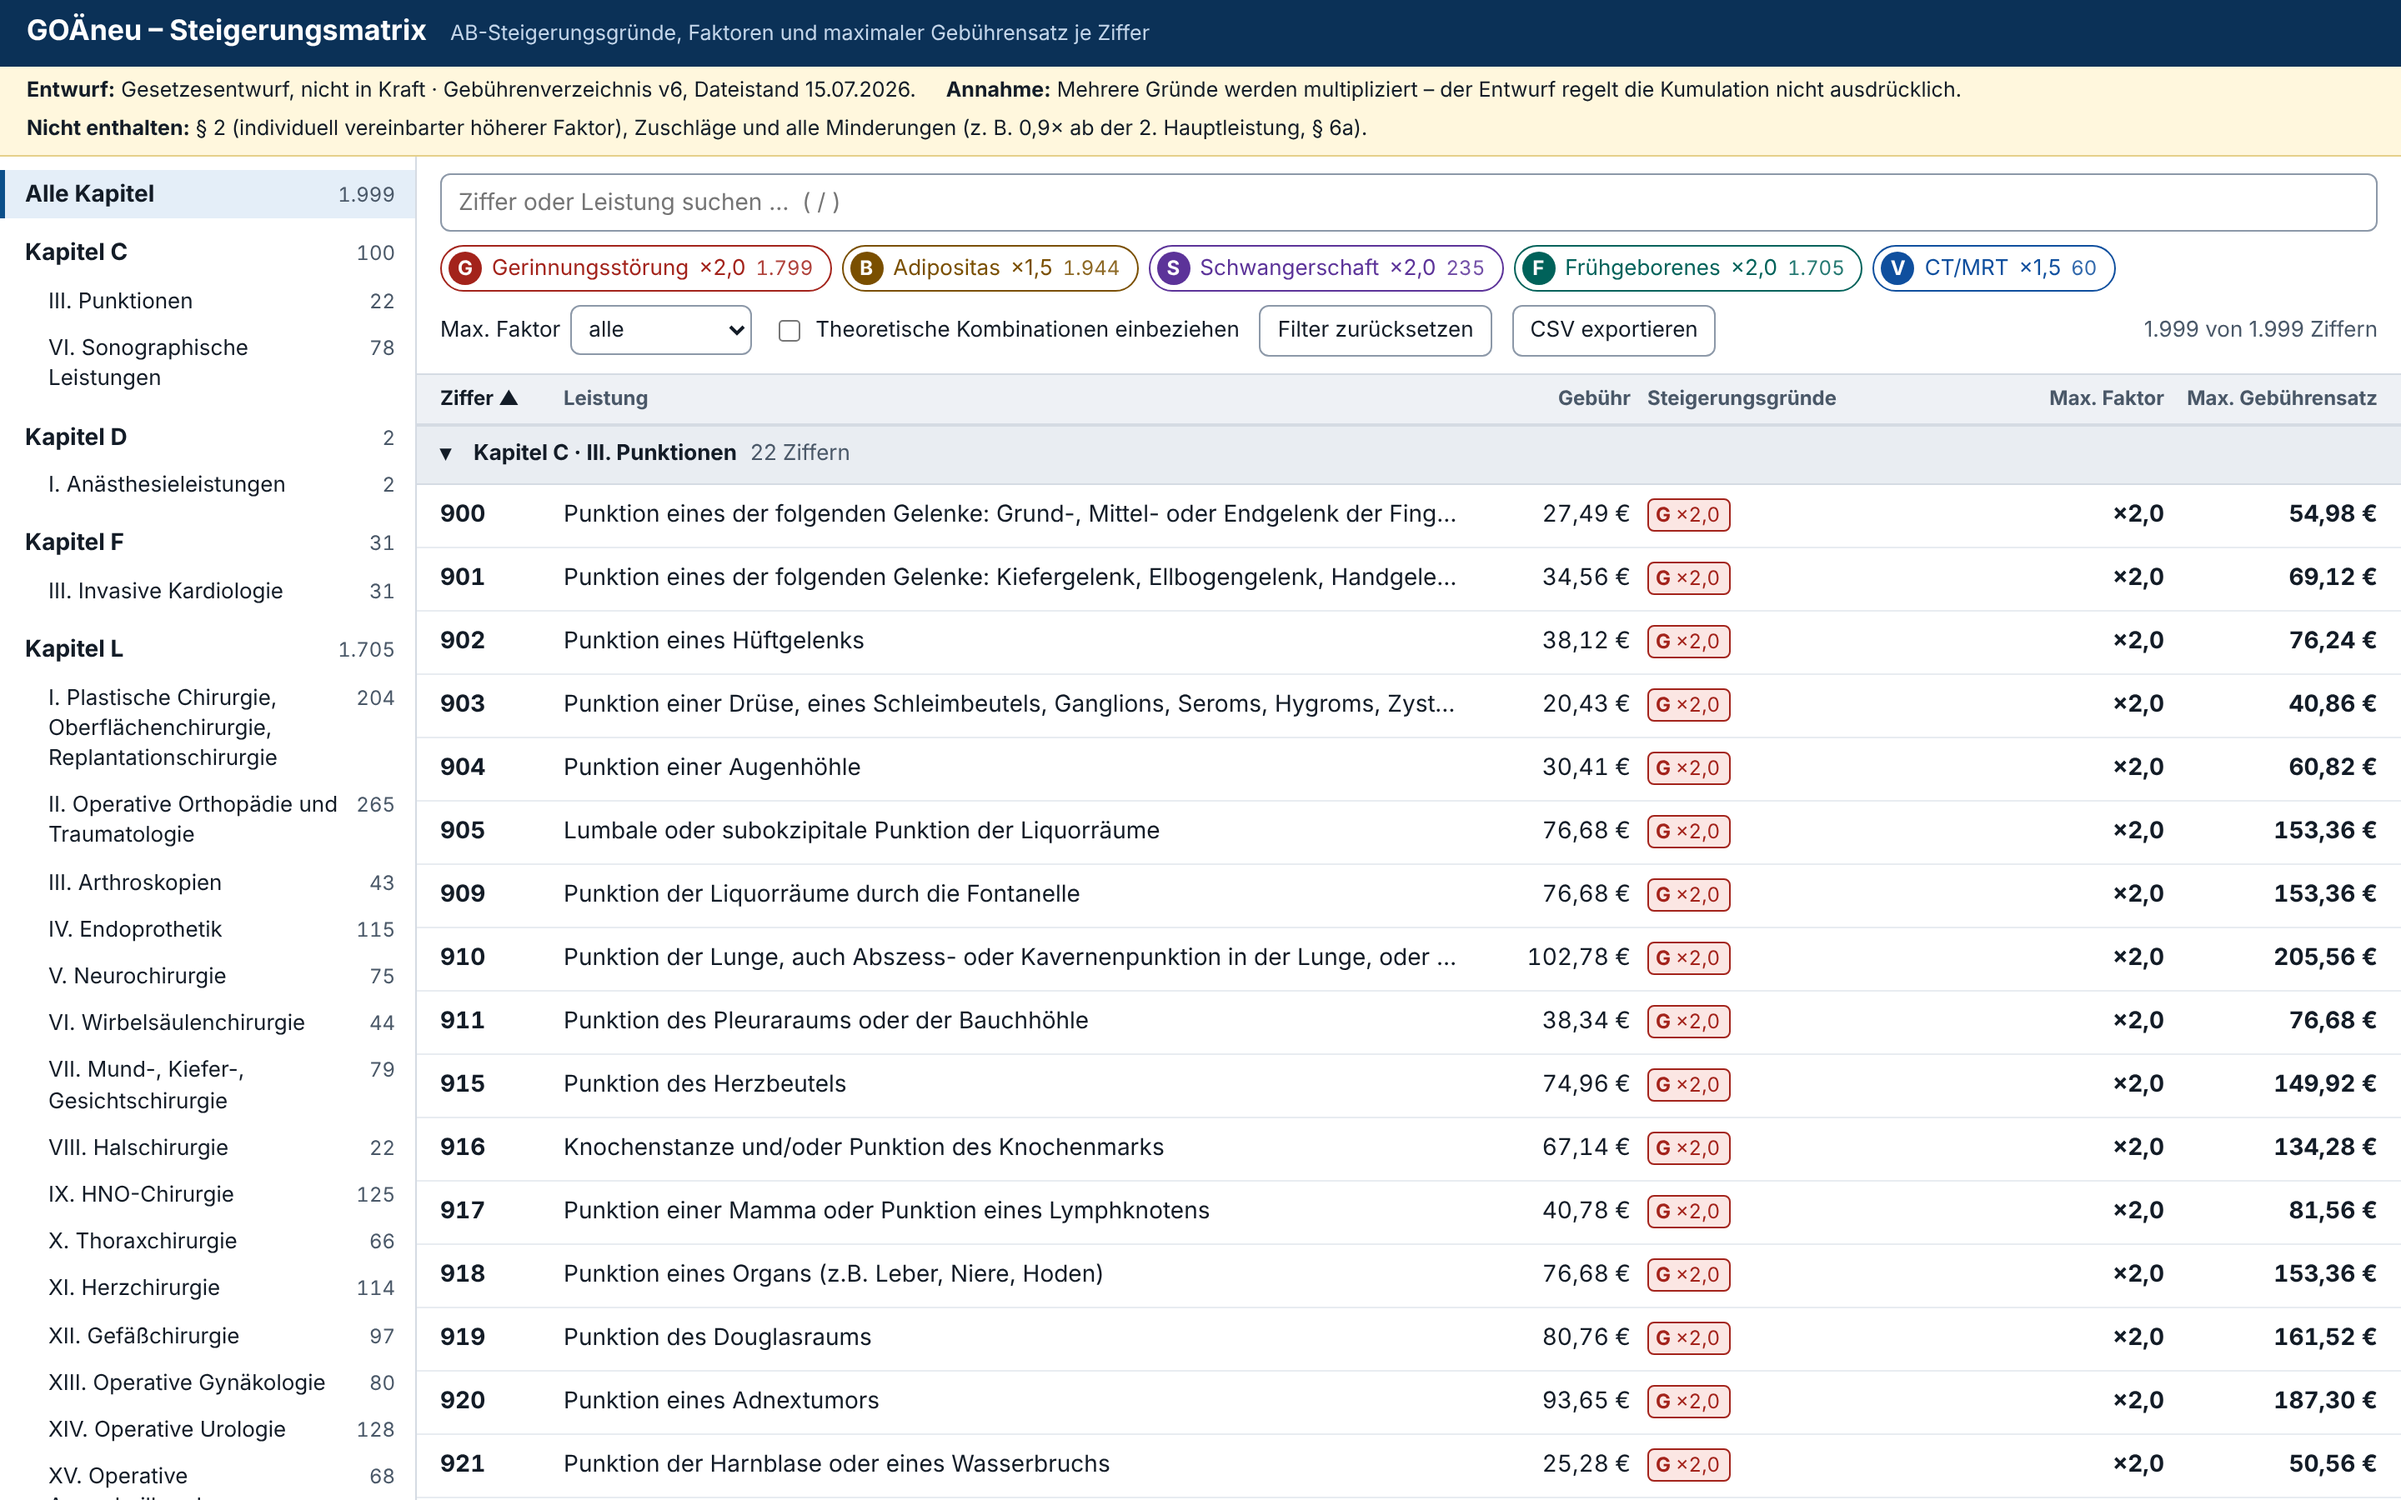
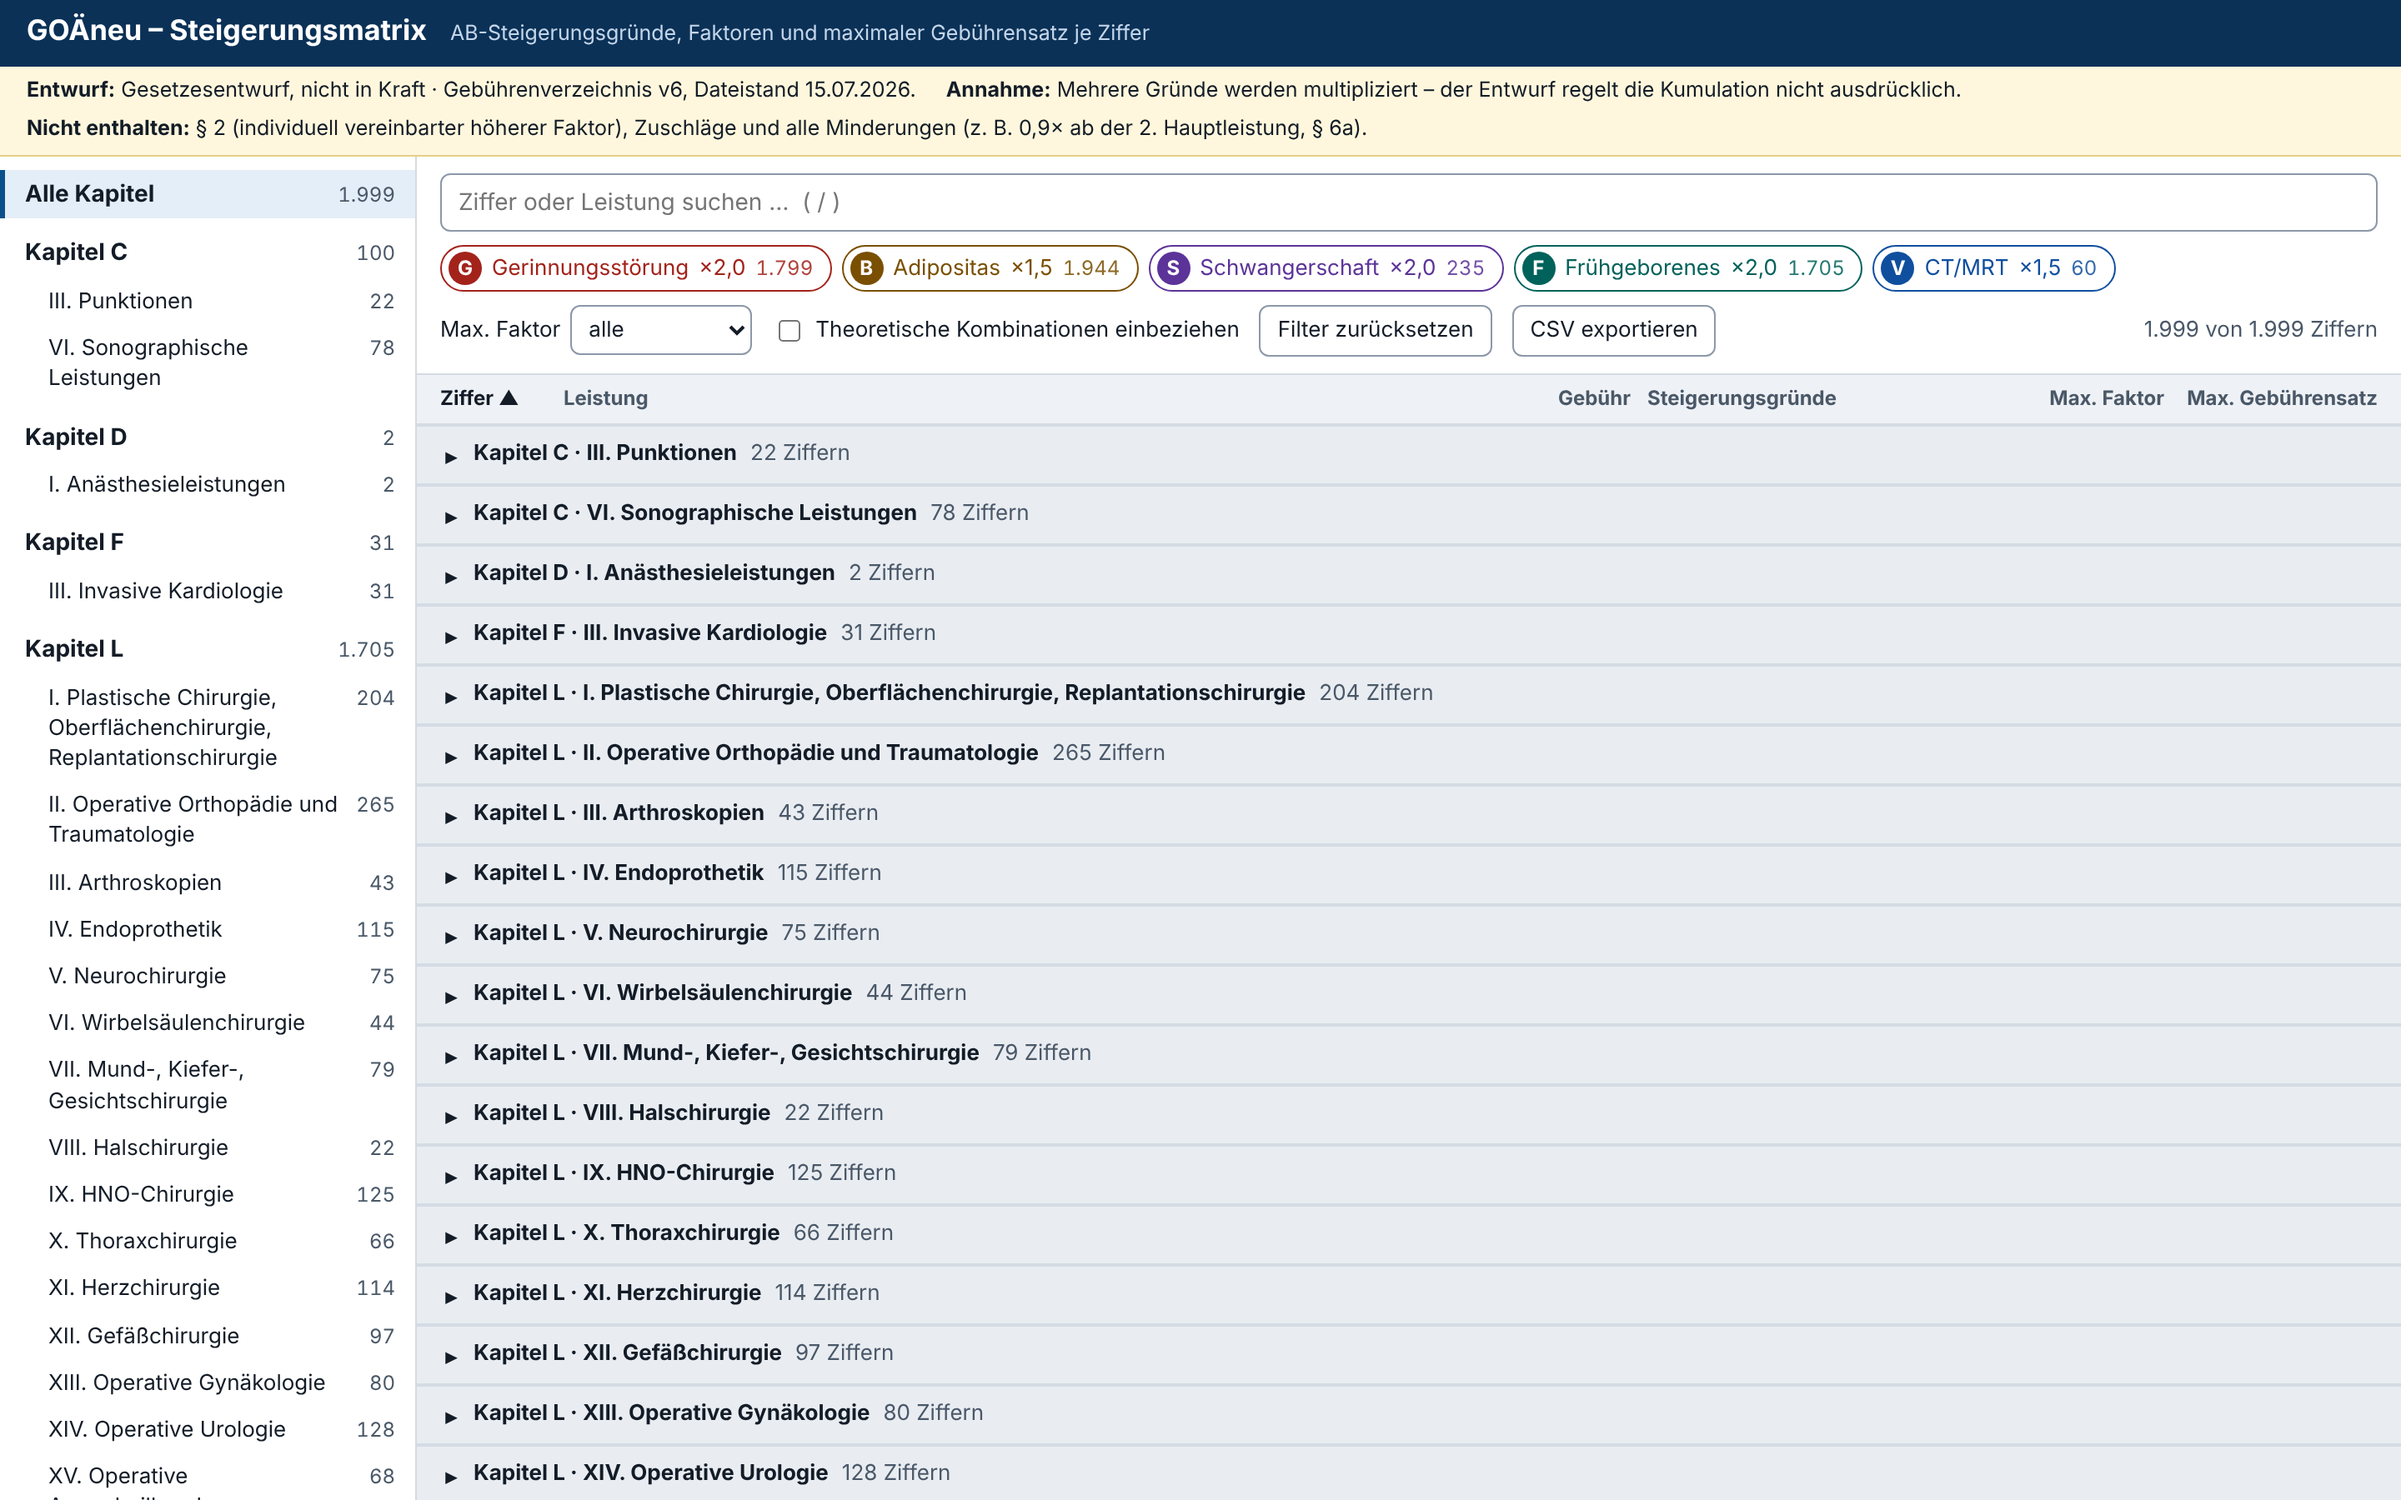
Dashboard: Abschnitte beim Öffnen standardmäßig eingeklappt
Claude-Session: https://claude.ai/code/session_01ExX3MZGde2qf5UwJUVuPTQ

diff --git a/build/template.html b/build/template.html
@@ -166,7 +166,7 @@ const R = D.rows.map(r => { const m = D.muster[r[6]]; return {z:r[0], a:r[1], t:
 const BYZ = new Map(R.map(r => [r.z, r]));
 const ROWH = 38, HEADH = 36;
 
-const st = {kap:null, abs:null, q:'', gr:new Set(), fmax:'', theo:false, sort:'z', dir:1, collapsed:new Set(), sel:null, active:-1};
+const st = {kap:null, abs:null, q:'', gr:new Set(), fmax:'', theo:false, sort:'z', dir:1, collapsed:new Set(D.abschnitte.map((_,i) => i)), sel:null, active:-1};
 let items = [], tops = [], total = 0, result = [];
 
 const mi = r => st.theo ? r.m.maxT : r.m.maxP;
@@ -376,19 +376,20 @@ function closeDrawer(){
 }
 function goto(z){
   if (!BYZ.has(z)) return false;
+  if (st.collapsed.delete(BYZ.get(z).a)) apply();
   let i = items.indexOf(BYZ.get(z));
-  if (i < 0) { st.kap = st.abs = null; st.q = ''; $('#q').value = ''; st.gr.clear(); st.fmax = ''; st.collapsed.clear(); renderNav(); renderFmax(); apply(); i = items.indexOf(BYZ.get(z)); }
+  if (i < 0) { st.kap = st.abs = null; st.q = ''; $('#q').value = ''; st.gr.clear(); st.fmax = ''; renderNav(); renderFmax(); apply(); i = items.indexOf(BYZ.get(z)); }
   st.active = i; list.scrollTop = Math.max(0, tops[i] - HEADH - ROWH); open(z, true);
   return true;
 }
 
 /* ---------- Bedienelemente ---------- */
 let qt = 0;
-const syncQ = () => { const v = $('#q').value.trim(); if (v !== st.q) { st.q = v; apply(); list.scrollTop = 0; } };
+const syncQ = () => { const v = $('#q').value.trim(); if (v !== st.q) { st.q = v; if (v) st.collapsed.clear(); apply(); list.scrollTop = 0; } };
 $('#q').addEventListener('input', () => { clearTimeout(qt); qt = setTimeout(syncQ, 80); });
 $('#q').addEventListener('search', syncQ);
 $('#q').addEventListener('keydown', e => {
-  if (e.key==='Enter') { clearTimeout(qt); st.q = e.target.value.trim(); apply();
+  if (e.key==='Enter') { clearTimeout(qt); st.q = e.target.value.trim(); if (st.q) st.collapsed.clear(); apply();
     const exact = /^\d+$/.test(st.q) && result.find(r => r.zs===st.q);
     const first = exact || items.find(it => it.h === undefined);
     if (first) { st.active = items.indexOf(first); scrollToIdx(st.active); open(first.z, true); } }
@@ -397,7 +398,7 @@ $('#q').addEventListener('keydown', e => {
 $('#chips').addEventListener('click', e => { const b = e.target.closest('.chip'); if (!b) return; const k = b.dataset.k; st.gr.has(k) ? st.gr.delete(k) : st.gr.add(k); apply(); list.scrollTop = 0; $(`.chip[data-k=${k}]`).focus(); });
 $('#fmax').addEventListener('change', e => { st.fmax = e.target.value; apply(); list.scrollTop = 0; });
 $('#theo').addEventListener('change', e => { st.theo = e.target.checked; renderFmax(); apply(); });
-$('#reset').addEventListener('click', () => { st.kap = st.abs = null; st.q = ''; $('#q').value = ''; st.gr.clear(); st.fmax = ''; st.collapsed.clear(); st.sort = 'z'; st.dir = 1; renderNav(); renderFmax(); apply(); list.scrollTop = 0; });
+$('#reset').addEventListener('click', () => { st.kap = st.abs = null; st.q = ''; $('#q').value = ''; st.gr.clear(); st.fmax = ''; st.collapsed = new Set(D.abschnitte.map((_,i) => i)); st.sort = 'z'; st.dir = 1; renderNav(); renderFmax(); apply(); list.scrollTop = 0; });
 $('#colhead').addEventListener('click', e => { const b = e.target.closest('button'); if (!b) return; if (st.sort===b.dataset.s) st.dir = -st.dir; else { st.sort = b.dataset.s; st.dir = (b.dataset.s==='f'||b.dataset.s==='m') ? -1 : 1; } apply(); });
 document.addEventListener('keydown', e => {
   const inField = /INPUT|SELECT|TEXTAREA/.test(document.activeElement.tagName);

diff --git a/dist/GOAeneu_Steigerungsdashboard.html b/dist/GOAeneu_Steigerungsdashboard.html
@@ -166,7 +166,7 @@ const R = D.rows.map(r => { const m = D.muster[r[6]]; return {z:r[0], a:r[1], t:
 const BYZ = new Map(R.map(r => [r.z, r]));
 const ROWH = 38, HEADH = 36;
 
-const st = {kap:null, abs:null, q:'', gr:new Set(), fmax:'', theo:false, sort:'z', dir:1, collapsed:new Set(), sel:null, active:-1};
+const st = {kap:null, abs:null, q:'', gr:new Set(), fmax:'', theo:false, sort:'z', dir:1, collapsed:new Set(D.abschnitte.map((_,i) => i)), sel:null, active:-1};
 let items = [], tops = [], total = 0, result = [];
 
 const mi = r => st.theo ? r.m.maxT : r.m.maxP;
@@ -376,19 +376,20 @@ function closeDrawer(){
 }
 function goto(z){
   if (!BYZ.has(z)) return false;
+  if (st.collapsed.delete(BYZ.get(z).a)) apply();
   let i = items.indexOf(BYZ.get(z));
-  if (i < 0) { st.kap = st.abs = null; st.q = ''; $('#q').value = ''; st.gr.clear(); st.fmax = ''; st.collapsed.clear(); renderNav(); renderFmax(); apply(); i = items.indexOf(BYZ.get(z)); }
+  if (i < 0) { st.kap = st.abs = null; st.q = ''; $('#q').value = ''; st.gr.clear(); st.fmax = ''; renderNav(); renderFmax(); apply(); i = items.indexOf(BYZ.get(z)); }
   st.active = i; list.scrollTop = Math.max(0, tops[i] - HEADH - ROWH); open(z, true);
   return true;
 }
 
 /* ---------- Bedienelemente ---------- */
 let qt = 0;
-const syncQ = () => { const v = $('#q').value.trim(); if (v !== st.q) { st.q = v; apply(); list.scrollTop = 0; } };
+const syncQ = () => { const v = $('#q').value.trim(); if (v !== st.q) { st.q = v; if (v) st.collapsed.clear(); apply(); list.scrollTop = 0; } };
 $('#q').addEventListener('input', () => { clearTimeout(qt); qt = setTimeout(syncQ, 80); });
 $('#q').addEventListener('search', syncQ);
 $('#q').addEventListener('keydown', e => {
-  if (e.key==='Enter') { clearTimeout(qt); st.q = e.target.value.trim(); apply();
+  if (e.key==='Enter') { clearTimeout(qt); st.q = e.target.value.trim(); if (st.q) st.collapsed.clear(); apply();
     const exact = /^\d+$/.test(st.q) && result.find(r => r.zs===st.q);
     const first = exact || items.find(it => it.h === undefined);
     if (first) { st.active = items.indexOf(first); scrollToIdx(st.active); open(first.z, true); } }
@@ -397,7 +398,7 @@ $('#q').addEventListener('keydown', e => {
 $('#chips').addEventListener('click', e => { const b = e.target.closest('.chip'); if (!b) return; const k = b.dataset.k; st.gr.has(k) ? st.gr.delete(k) : st.gr.add(k); apply(); list.scrollTop = 0; $(`.chip[data-k=${k}]`).focus(); });
 $('#fmax').addEventListener('change', e => { st.fmax = e.target.value; apply(); list.scrollTop = 0; });
 $('#theo').addEventListener('change', e => { st.theo = e.target.checked; renderFmax(); apply(); });
-$('#reset').addEventListener('click', () => { st.kap = st.abs = null; st.q = ''; $('#q').value = ''; st.gr.clear(); st.fmax = ''; st.collapsed.clear(); st.sort = 'z'; st.dir = 1; renderNav(); renderFmax(); apply(); list.scrollTop = 0; });
+$('#reset').addEventListener('click', () => { st.kap = st.abs = null; st.q = ''; $('#q').value = ''; st.gr.clear(); st.fmax = ''; st.collapsed = new Set(D.abschnitte.map((_,i) => i)); st.sort = 'z'; st.dir = 1; renderNav(); renderFmax(); apply(); list.scrollTop = 0; });
 $('#colhead').addEventListener('click', e => { const b = e.target.closest('button'); if (!b) return; if (st.sort===b.dataset.s) st.dir = -st.dir; else { st.sort = b.dataset.s; st.dir = (b.dataset.s==='f'||b.dataset.s==='m') ? -1 : 1; } apply(); });
 document.addEventListener('keydown', e => {
   const inField = /INPUT|SELECT|TEXTAREA/.test(document.activeElement.tagName);

diff --git a/build/qs_ui.js b/build/qs_ui.js
@@ -30,7 +30,11 @@ const path = require('path');
   const opts = await page.locator('#fmax option').allInnerTexts();
   check('Faktorfilter zeigt Verteilung 142 / 55 / 58 / 37 / 1.470 / 2 / 235',
     opts.slice(1).join(' ') === '×1,5 (142) ×2,0 (55) ×2,25 (58) ×3,0 (37) ×4,0 (1.470) ×4,5 (2) ×6,0 (235)', opts.slice(1).join(' '));
+  check('Startansicht: alle 23 Abschnitte eingeklappt', await page.locator('.ghead[aria-expanded=false]').count() === 23 && await page.locator('.row').count() === 0, (await page.locator('.ghead[aria-expanded=false]').count()) + ' eingeklappt, ' + (await page.locator('.row').count()) + ' Zeilen');
   await shot('01_startansicht.png');
+  await page.locator('.ghead').first().click();
+  check('Klick auf Abschnitt klappt auf (C III: 22 Ziffern)', await page.locator('.row').count() >= 15 && (await page.locator('.row .z').first().innerText()) === '900', (await page.locator('.row .z').first().innerText()));
+  await page.locator('.ghead').first().click();
 
   // Suche 1200 -> eine Eingabe + Enter
   await page.keyboard.press('/');

diff --git a/output/qs_bericht.md b/output/qs_bericht.md
@@ -29,8 +29,10 @@
 | Startansicht: Status „1.999 von 1.999 Ziffern“ | ✅ bestanden | 1.999 von 1.999 Ziffern |
 | Navigation: Kapitel C, D, F, L, O mit 100 / 2 / 31 / 1.705 / 161 | ✅ bestanden | Kapitel C 100 | Kapitel D 2 | Kapitel F 31 | Kapitel L 1.705 | Kapitel O 161 |
 | Navigation: 23 Abschnitte | ✅ bestanden | 23 |
-| Virtualisierung: weniger als 80 Zeilen im DOM | ✅ bestanden | 24 Elemente |
+| Virtualisierung: weniger als 80 Zeilen im DOM | ✅ bestanden | 23 Elemente |
 | Faktorfilter zeigt Verteilung 142 / 55 / 58 / 37 / 1.470 / 2 / 235 | ✅ bestanden | ×1,5 (142) ×2,0 (55) ×2,25 (58) ×3,0 (37) ×4,0 (1.470) ×4,5 (2) ×6,0 (235) |
+| Startansicht: alle 23 Abschnitte eingeklappt | ✅ bestanden | 23 eingeklappt, 0 Zeilen |
+| Klick auf Abschnitt klappt auf (C III: 22 Ziffern) | ✅ bestanden | 900 |
 | Suche „1200“ + Enter öffnet Ziffer 1200: 21,00 €, B ×1,5, max. 31,50 € | ✅ bestanden | Ziffer 1200 Schließen Esc Kapitel C · VI. Sonographische Leistungen Sonographische (Teil-)Untersuchung mit Bezug auf ein Organ oder sonographische Verlaufsunter |
 | URL-Hash gesetzt (#1200) | ✅ bestanden | GOAeneu_Steigerungsdashboard.html#1200 |
 | Filter Chips G + S: 235 Ziffern | ✅ bestanden | 235 von 1.999 Ziffern |
